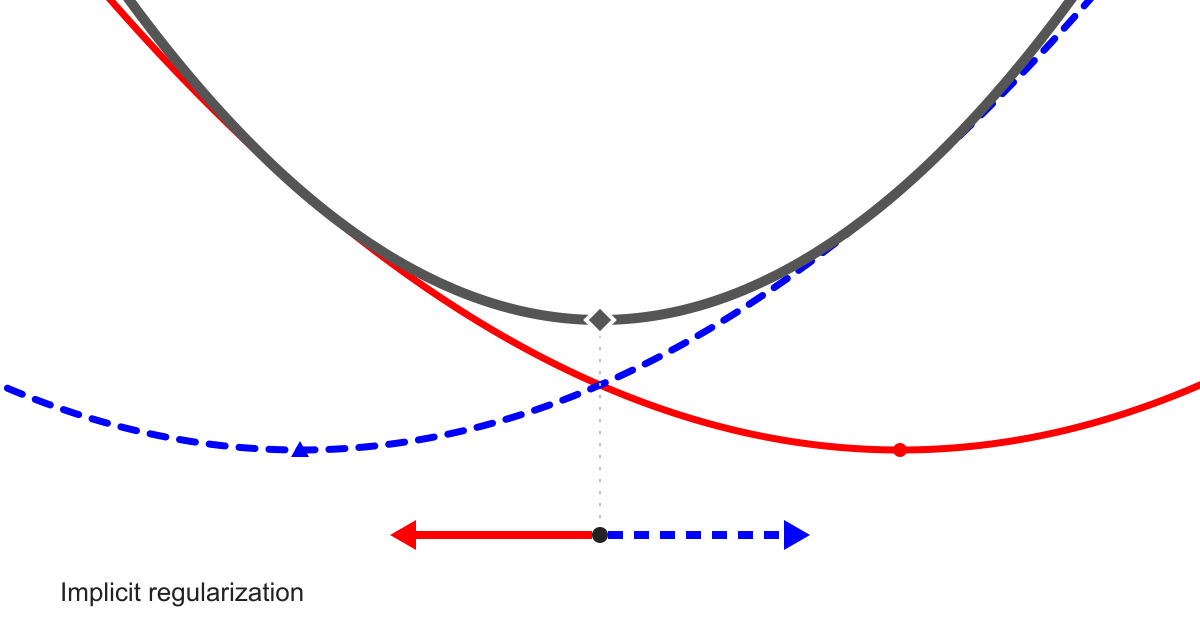
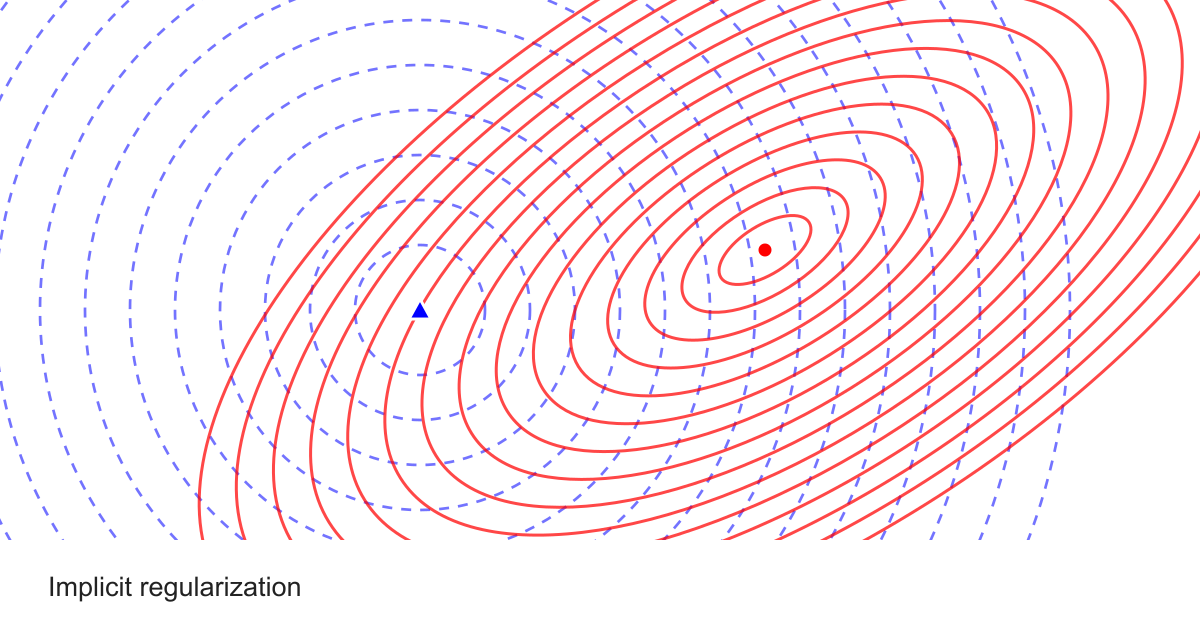
Use overlapping loss and regularization contours for social preview

diff --git a/site/index.html b/site/index.html
@@ -12,12 +12,12 @@
 <meta property="og:image" content="https://jrudoler.com/estimating-implicit-regularization/assets/social-preview.png">
 <meta property="og:image:width" content="1200">
 <meta property="og:image:height" content="630">
-<meta property="og:image:alt" content="Loss, penalty, and total objective curves, with equal and opposite gradients at the regularized optimum.">
+<meta property="og:image:alt" content="Overlapping red loss contours and dashed blue regularization contours with distinct minima.">
 <meta name="twitter:card" content="summary_large_image">
 <meta name="twitter:title" content="Estimating implicit regularization in deep learning">
 <meta name="twitter:description" content="Estimating explicit and implicit regularization from model weights and loss gradients.">
 <meta name="twitter:image" content="https://jrudoler.com/estimating-implicit-regularization/assets/social-preview.png">
-<meta name="twitter:image:alt" content="Loss and penalty gradients cancel at the minimum of their combined objective.">
+<meta name="twitter:image:alt" content="Overlapping loss and regularization landscapes, shown as solid red and dashed blue contours.">
 
 <link rel="stylesheet" href="./style.css">
 <script type="module" src="./app.mjs"></script>
